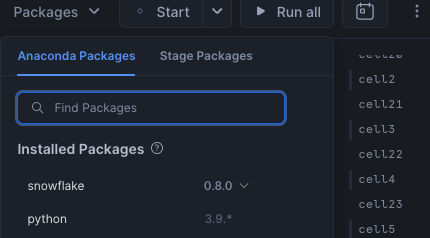
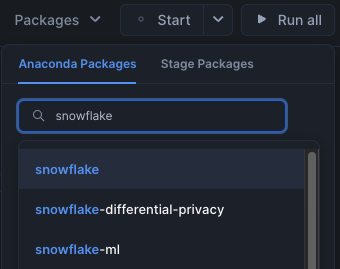
Updated QS to use Snowflake Notebooks

diff --git a/site/sfguides/src/getting_started_with_dataengineering_ml_using_snowpark_python/getting_started_with_dataengineering_ml_using_snowpark_python.md b/site/sfguides/src/getting_started_with_dataengineering_ml_using_snowpark_python/getting_started_with_dataengineering_ml_using_snowpark_python.md
@@ -110,7 +110,7 @@ Run the following SQL commands to create the [warehouse](https://docs.snowflake.
 ```sql
 USE ROLE ACCOUNTADMIN;
 
-CREATE OR REPLACE WAREHOUSE DASH_L WAREHOUSE_SIZE=LARGE;
+CREATE OR REPLACE WAREHOUSE DASH_S WAREHOUSE_SIZE=SMALL;
 CREATE OR REPLACE DATABASE DASH_DB;
 CREATE OR REPLACE SCHEMA DASH_SCHEMA;
 
@@ -201,23 +201,29 @@ The Notebook linked below covers the following data engineering tasks.
 
 To get started, follow these steps:
 
-1) Download [Snowpark_For_Python_DE.ipynb](https://github.com/Snowflake-Labs/sfguide-getting-started-dataengineering-ml-snowpark-python/blob/main/Snowpark_For_Python_DE.ipynb)
+1) Click on [Snowpark_For_Python_DE.ipynb](https://github.com/Snowflake-Labs/sfguide-getting-started-dataengineering-ml-snowpark-python/blob/main/Snowpark_For_Python_DE.ipynb) to download the Notebook from GitHub. ***(NOTE: Do NOT right-click to download.)***
 
 2) In your Snowflake account:
   * On the left hand navigation menu, click on **Projects** >> **Notebooks**  
   * On the top right, click on **Notebook** down arrow and select **Import .ipynb file** from the dropdown menu
   * Select the file you downloaded in step 1 above
+
+3) In the Create Notebook popup
+  * For **Notebook location**, select DASH_DB and DASH_SCHEMA
+  * For **SQL warehouse**, select DASH_S
   * Click on **Create** button
 
-If all goes well, you should see the following:
+If all goes well, you should see the following Notebook:
 
 ![Snowflake DE NB](assets/snowflake_de_nb.png)
 
-3) On the top right, click on **Packages** and make sure you have the following packages installed.
+4) On the top right, click on **Packages** and make sure you install `snowflake` package by typing it in the search box and clicking on the first one.
 
 ![Snowflake DE NB](assets/snowflake_de_nb_packages.png)
 
-4) On the top right, click on **Start** and run through the cells to perform the data engineering tasks highlighted above.
+5) On the top right, click on **Start**. ***(NOTE: The first time it will take a couple of mins to install the packages.)***
+
+6) Once the packages are installed and the state changes from **Start** >> **Starting** >> **Active**, you can either click on **Run all** to execute all cells, or you can run individual cells in the order from top to bottom by clicking on the play icon on the top right corner of each cell. 
 
 <!-- ------------------------ -->
 ## Data Pipelines
@@ -381,23 +387,27 @@ The Notebook linked below covers the following machine learning tasks.
 
 ### Machine Learning Notebook
 
-1) Download [Snowpark_For_Python_ML.ipynb](https://github.com/Snowflake-Labs/sfguide-getting-started-dataengineering-ml-snowpark-python/blob/main/Snowpark_For_Python_ML.ipynb)
+1) Click on [Snowpark_For_Python_ML.ipynb](https://github.com/Snowflake-Labs/sfguide-getting-started-dataengineering-ml-snowpark-python/blob/main/Snowpark_For_Python_ML.ipynb) to download the Notebook from GitHub. ***(NOTE: Do NOT right-click to download.)***
 
 2) In your Snowflake account:
   * On the left hand navigation menu, click on **Projects** >> **Notebooks**  
   * On the top right, click on **Notebook** down arrow and select **Import .ipynb file** from the dropdown menu
   * Select the file you downloaded in step 1 above
+  * For **Notebook location**, select DASH_DB and DASH_SCHEMA
+  * For **SQL warehouse**, select DASH_S
   * Click on **Create** button
 
 If all goes well, you should see the following:
 
 ![Snowflake DE NB](assets/snowflake_ml_nb.png)
 
-3) On the top right, click on **Packages** and make sure you have the following packages installed.
+3) On the top right, click on **Packages** and make sure you install `snowflake-ml` package by typing it in the search box and selecting the first one.
 
 ![Snowflake DE NB](assets/snowflake_ml_nb_packages.png)
 
-4) On the top right, click on **Start** and run through the cells to perform the machine learning tasks highlighted above.
+4) On the top right, click on **Start**. ***(NOTE: The first time it will take a couple of mins to install the packages.)***
+
+5) Once the packages are installed and the state changes from **Start** >> **Starting** >> **Active**, you can either click on **Run all** to execute all cells, or you can run individual cells in the order from top to bottom by clicking on the play icon on the top right corner of every cell. 
 
 <!-- ------------------------ -->
 ## Streamlit Application
